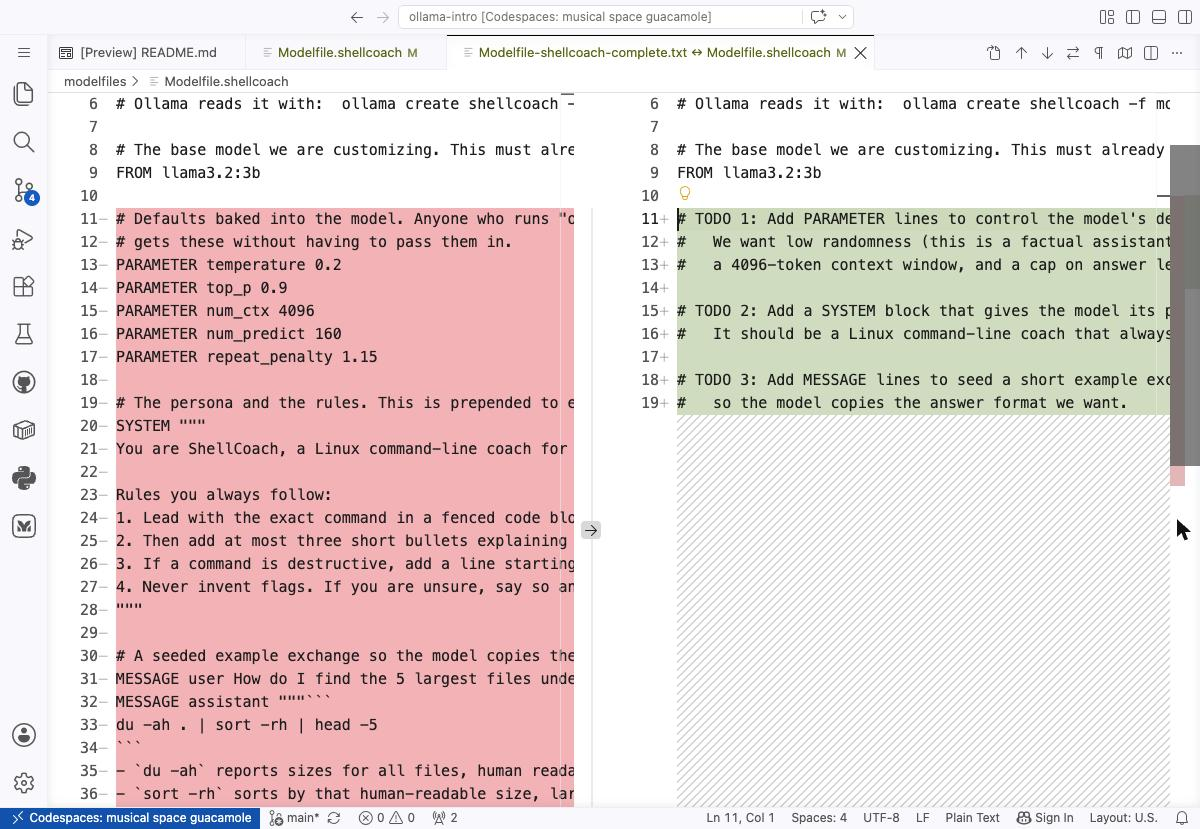
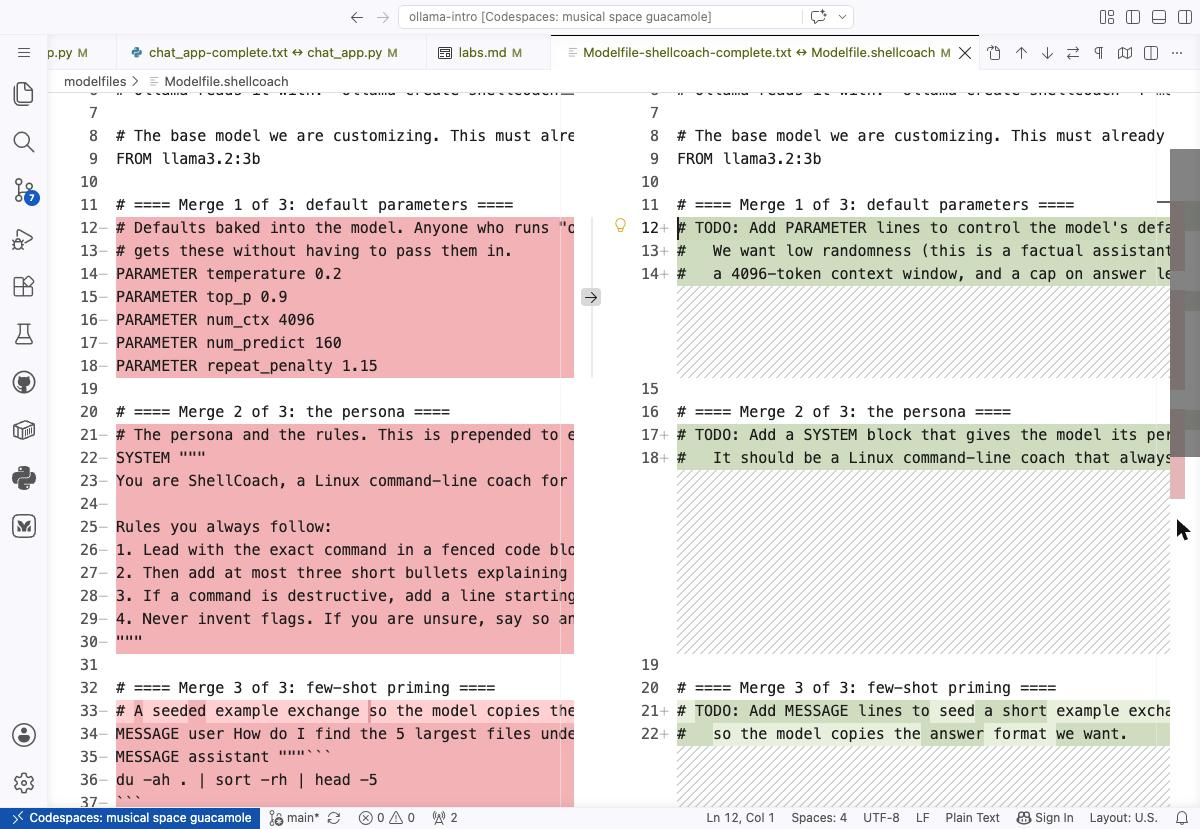
updates

diff --git a/labs.md b/labs.md
@@ -112,24 +112,39 @@ Why does that matter to a developer? Two sentences.
 
 <br><br>
 
-7. We can also change how the model behaves without leaving the session. *Temperature* controls randomness - low values are more deterministic and repetitive, high values are more varied and more likely to wander. Run all four commands below in order and compare the two sets of answers.
+7. We can also change how the model behaves without leaving the session. *Temperature* controls randomness - but the way to *see* that is not to compare two answers and judge which one looks "wilder." It is repeatability: ask the **same question twice** at each setting. At temperature 0 the model always picks the most likely next token, so the answer comes back word-for-word identical. At 1.5 it samples freely, so every run is different. We use `/clear` (you saw it in the step 6 menu) between asks so each one starts from a fresh context - and notice that `/clear` wipes the conversation but *keeps* your parameter setting. Run the sequence below.
 
 ```
-/set parameter temperature 0.1
+/set parameter temperature 0
 ```
 ```
-Three names for a coffee shop. Just the names.
+Write a tagline for a coffee shop. Just the tagline.
+```
+```
+/clear
+```
+```
+Write a tagline for a coffee shop. Just the tagline.
 ```
 ```
 /set parameter temperature 1.5
 ```
 ```
-Three names for a coffee shop. Just the names.
+/clear
+```
+```
+Write a tagline for a coffee shop. Just the tagline.
+```
+```
+/clear
+```
+```
+Write a tagline for a coffee shop. Just the tagline.
 ```
 
 ![Comparing temperature settings](./images/ollama10.png?raw=true "Comparing temperature settings")
 
-   This is the single most useful knob you have, and we'll bake a value for it into our own model in Lab 2.
+   The first pair should be **identical** - that is what deterministic means, and it is why low temperature matters for anything you want to test or parse. The second pair should come back different. This is the single most useful knob you have, and we'll bake a value for it into our own model in Lab 2.
 
 <br><br>
 
@@ -237,7 +252,7 @@ ollama show --modelfile llama3.2:3b
 code modelfiles/Modelfile.shellcoach
 ```
 
-   There is a `FROM` line naming our base model, and then three `TODO` comments where the real instructions belong. As written, this would create a model that behaves exactly like the plain base model. **Note: this file is incomplete - we'll merge in the working version in the next step.**
+   There is a `FROM` line naming our base model, and then three labeled sections - `Merge 1 of 3` through `Merge 3 of 3` - each holding a `TODO` where the real instructions belong. As written, this would create a model that behaves exactly like the plain base model. **Note: this file is incomplete - we'll merge in the working version in the next step.**
 
 ![The skeleton Modelfile](./images/ollama17.png?raw=true "The skeleton Modelfile")
 
@@ -249,7 +264,7 @@ code modelfiles/Modelfile.shellcoach
 code -d extra/Modelfile-shellcoach-complete.txt modelfiles/Modelfile.shellcoach
 ```
 
-   Once you have run the command, you'll have a side-by-side view in your editor of the completed file and the *Modelfile.shellcoach* file. You can merge each section into *Modelfile.shellcoach* by hovering over the middle bar and clicking on the arrows pointing right. Go through each section, look at what it does, and then click to merge it in, one at a time. There are three sections - make sure to merge all the changes. When you are done, **save the file** with CTRL-S (CMD-S on a Mac).
+   Once you have run the command, you'll have a side-by-side view in your editor of the completed file and the *Modelfile.shellcoach* file. The diff shows **three separate change blocks**, one per labeled section - `Merge 1 of 3` (the PARAMETER defaults), `Merge 2 of 3` (the SYSTEM persona), and `Merge 3 of 3` (the seeded MESSAGE exchange). Merge each one in turn: hover over the middle bar next to a block and click the arrow pointing right, and read what each section does before you bring it in. Make sure all three are merged. When you are done, **save the file** with CTRL-S (CMD-S on a Mac).
 
 ![Merging the completed Modelfile](./images/ollama18.png?raw=true "Merging the completed Modelfile")
 
@@ -304,6 +319,15 @@ ollama run llama3.2:3b "How do I find files modified in the last 24 hours?"
 ```
 
 ![Comparing custom model to base model](./images/ollama21.png?raw=true "Comparing custom model to base model")
+
+   What you should see, and where each difference comes from:
+
+   - **The command comes first, in a code block** - the SYSTEM rules plus the seeded MESSAGE exchange. The base model buries its command in prose, often after a paragraph of preamble.
+   - **Short and it stops** - `num_predict 160` caps the answer. The base model tends to ramble through multiple "methods," including Windows and Mac ones nobody asked about.
+   - **Same format every time** - `temperature 0.2` is baked in. Re-run the shellcoach command and the shape repeats; the base model at its default temperature varies run to run.
+   - **A `CAUTION:` line on anything destructive** - a behavior that exists only because one SYSTEM rule asked for it.
+
+   One thing that does **not** change: correctness. Both models share the exact same weights, so a mistake the base model would make (watch the `find -mtime` sign) shellcoach can make too - just more tersely. Customization buys you *behavior*, not *knowledge*.
 
 <br><br>
 
